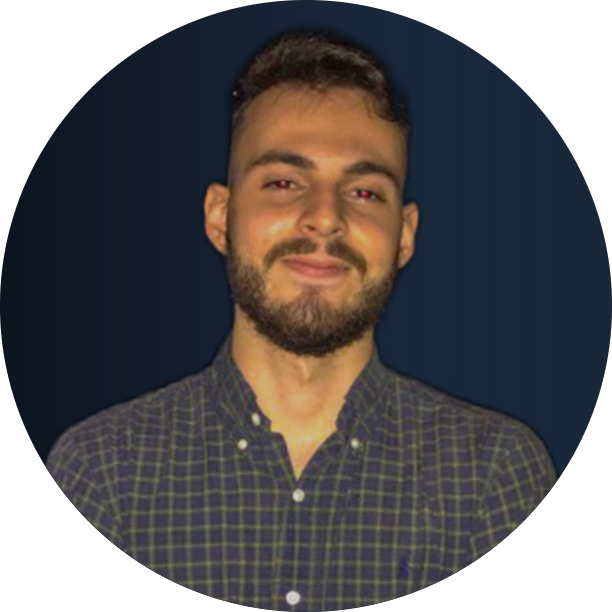
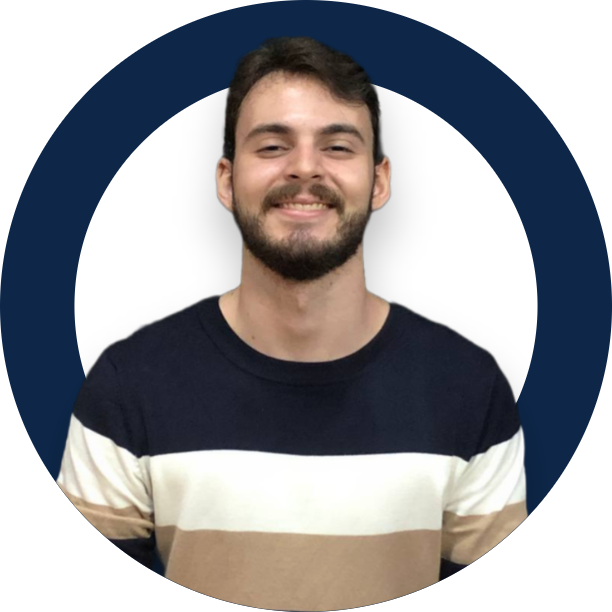
Automatizando idade e nova foto perfil

diff --git a/src/app/app.component.ts b/src/app/app.component.ts
@@ -26,10 +26,15 @@ export class AppComponent implements OnInit {
     this.getCareer();
     this.getProjects();
 
-    let dataAniversario = new Date('2000-05-23');
-    let now = new Date();
+    const now = new Date();
+    const dataNasc = new Date('2000-05-23');
+    const mes = now.getMonth() - dataNasc.getMonth();
+    this.age = now.getFullYear() - dataNasc.getFullYear();
 
-    this.age = now.getFullYear() - dataAniversario.getFullYear();
+    if (mes < 0 || (mes === 0 && now.getDate() < dataNasc.getDate())) {
+      this.age--;
+    }
+
     this.carregando = false;
   }
 
@@ -79,8 +84,7 @@ export class AppComponent implements OnInit {
       },
       {
         title: 'Portfólio - Matheus Pimentel',
-        description:
-          'Meu portfólio particular profissional.',
+        description: 'Meu portfólio particular profissional.',
         tecnologies: [
           'https://img.shields.io/badge/Typescript-yellow?style=for-the-badge&logo=Typescript&logoColor=white',
           'https://img.shields.io/badge/Angular-6A0000?style=for-the-badge&logo=Angular&logoColor=white',
@@ -108,10 +112,10 @@ export class AppComponent implements OnInit {
         title: 'Avodah Escalas',
         description:
           'Sistema de gestão e geração de escalas dinâmicas. Projeto realizado como TCC de Sistemas de Informação direcionado à Igreja Metodista em Palmas.',
-          tecnologies: [
-            'https://img.shields.io/badge/Csharp-009929?style=for-the-badge&logo=Csharp&logoColor=white',
-            'https://img.shields.io/badge/.Net-040B14?style=for-the-badge&logo=Windows&logoColor=white',
-          ],
+        tecnologies: [
+          'https://img.shields.io/badge/Csharp-009929?style=for-the-badge&logo=Csharp&logoColor=white',
+          'https://img.shields.io/badge/.Net-040B14?style=for-the-badge&logo=Windows&logoColor=white',
+        ],
         url: 'https://github.com/matheuspcouto/AVODAH',
         image: 'assets/img/projetos/Avodah White.png',
         class: 'project-text w-100 my-auto text-center text-lg-right',
@@ -120,10 +124,10 @@ export class AppComponent implements OnInit {
         title: 'Info Store',
         description:
           'Sistema de Controle de Estoque de uma loja de informática. Projeto realizado na disciplina de Tópicos em Programação 3 durante o 5º período.',
-          tecnologies: [
-            'https://img.shields.io/badge/Csharp-009929?style=for-the-badge&logo=Csharp&logoColor=white',
-            'https://img.shields.io/badge/.Net-040B14?style=for-the-badge&logo=Windows&logoColor=white',
-          ],
+        tecnologies: [
+          'https://img.shields.io/badge/Csharp-009929?style=for-the-badge&logo=Csharp&logoColor=white',
+          'https://img.shields.io/badge/.Net-040B14?style=for-the-badge&logo=Windows&logoColor=white',
+        ],
         url: 'https://github.com/matheuspcouto/INFO-STORE',
         image: 'assets/img/projetos/info.png',
         class: 'project-text w-100 my-auto text-center text-lg-left',
@@ -132,11 +136,11 @@ export class AppComponent implements OnInit {
         title: 'IrrIot - Sistema de Irrigação Inteligente',
         description:
           'Projeto de interação com Arduino e plataforma Java Web para monitorar dados e controlar o sistema de irrigação de forma econômica e precisa.',
-          tecnologies: [
-            'https://img.shields.io/badge/Java-F7F7F7?style=for-the-badge&logo=CoffeeScript&logoColor=black',
-            'https://img.shields.io/badge/CSS3-blue?style=for-the-badge&logo=css3&logoColor=white',
-            'https://img.shields.io/badge/HTML5-E34F26?style=for-the-badge&logo=html5&logoColor=white'
-          ],
+        tecnologies: [
+          'https://img.shields.io/badge/Java-F7F7F7?style=for-the-badge&logo=CoffeeScript&logoColor=black',
+          'https://img.shields.io/badge/CSS3-blue?style=for-the-badge&logo=css3&logoColor=white',
+          'https://img.shields.io/badge/HTML5-E34F26?style=for-the-badge&logo=html5&logoColor=white',
+        ],
         url: 'https://github.com/matheuspcouto/Projeto-Irrigacao',
         image: 'assets/img/projetos/irriot.jfif',
         class: 'project-text w-100 my-auto text-center text-lg-right',
@@ -153,7 +157,7 @@ export class AppComponent implements OnInit {
         activities: [
           'Suporte de Hardware e Software',
           'Administração de Alvarás para Empresas',
-          'Relatórios'
+          'Relatórios',
         ],
       },
       {
@@ -173,7 +177,7 @@ export class AppComponent implements OnInit {
         activities: [
           'Desenvolvimento e Manutenção de Sistemas Bradesco',
           'Supervisão de desenvolvedores júnior',
-          'Builds e deploys de aplicações'
+          'Builds e deploys de aplicações',
         ],
       },
     ];
